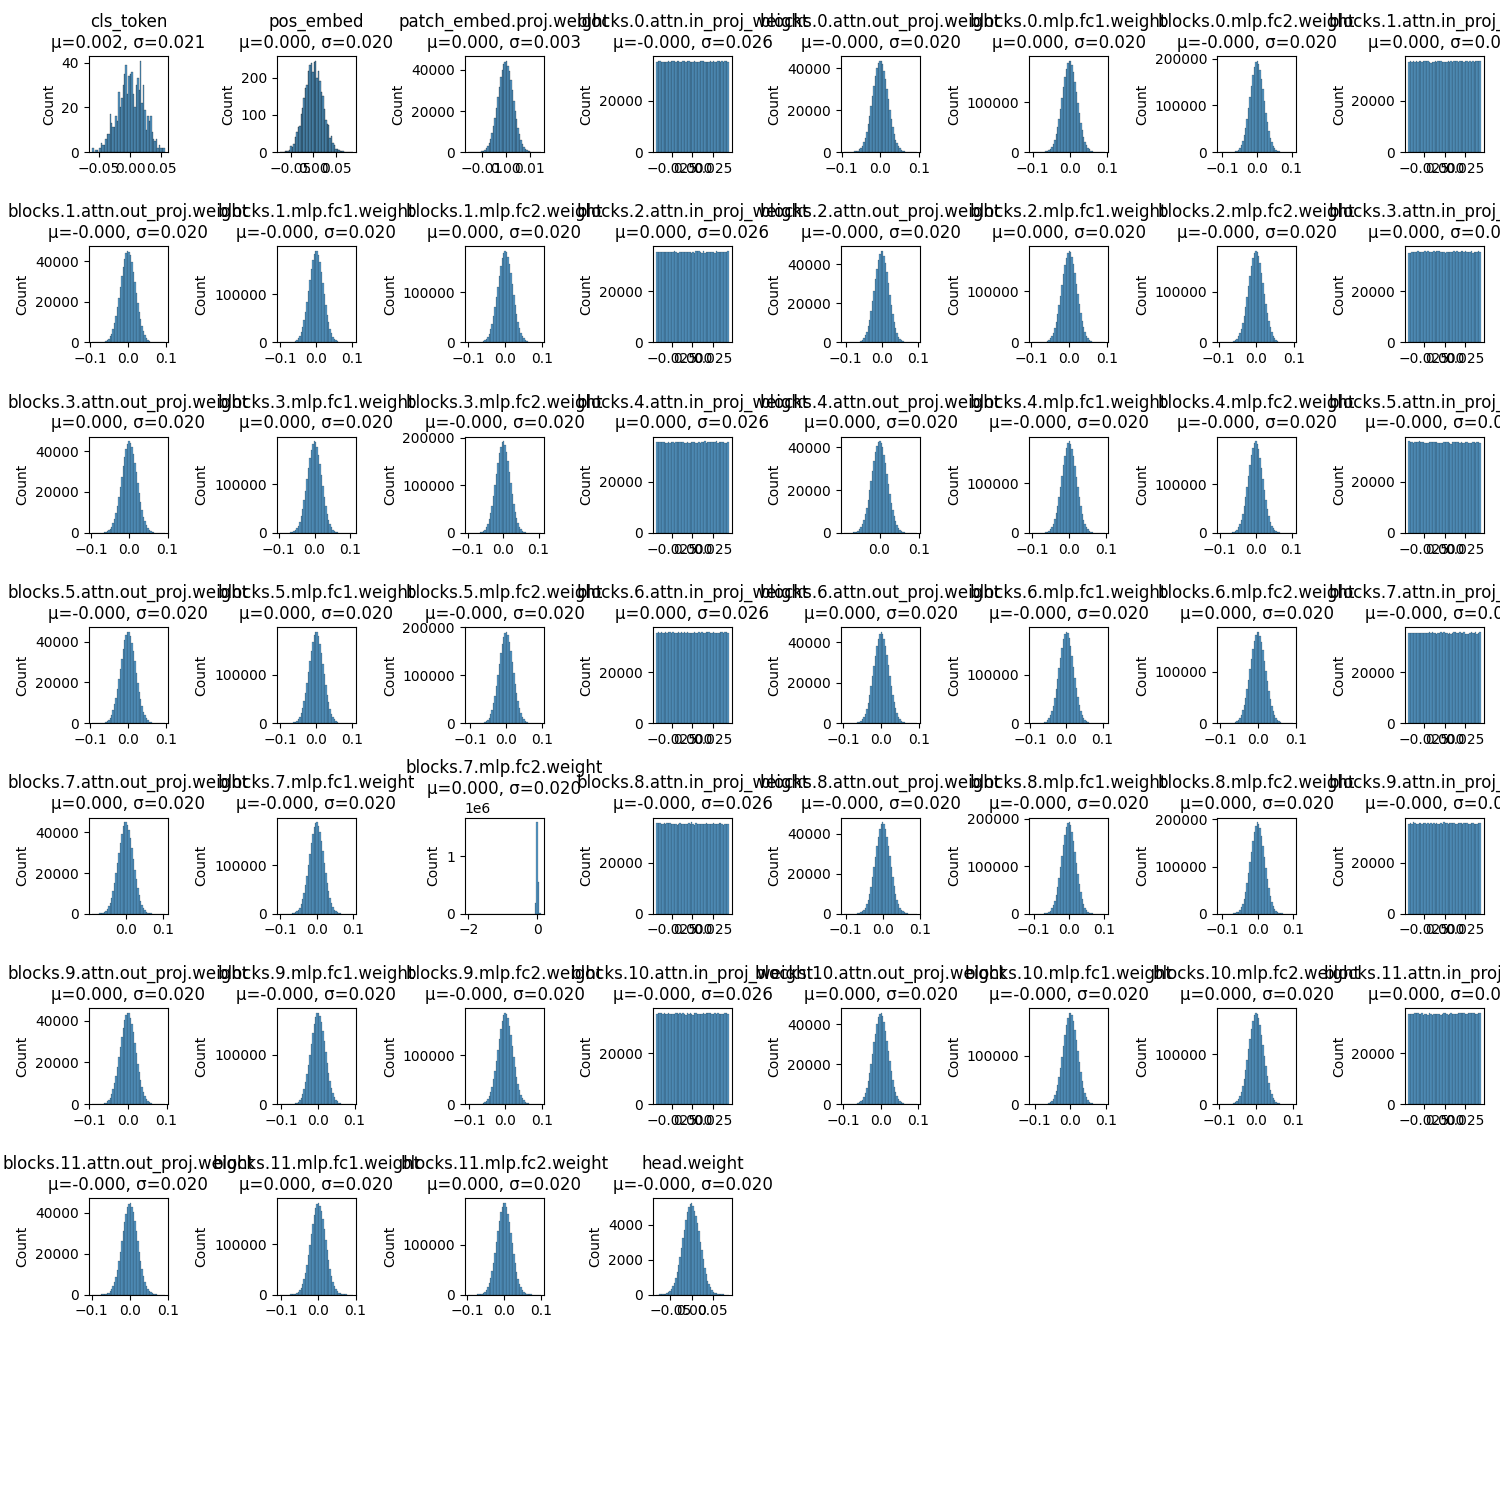
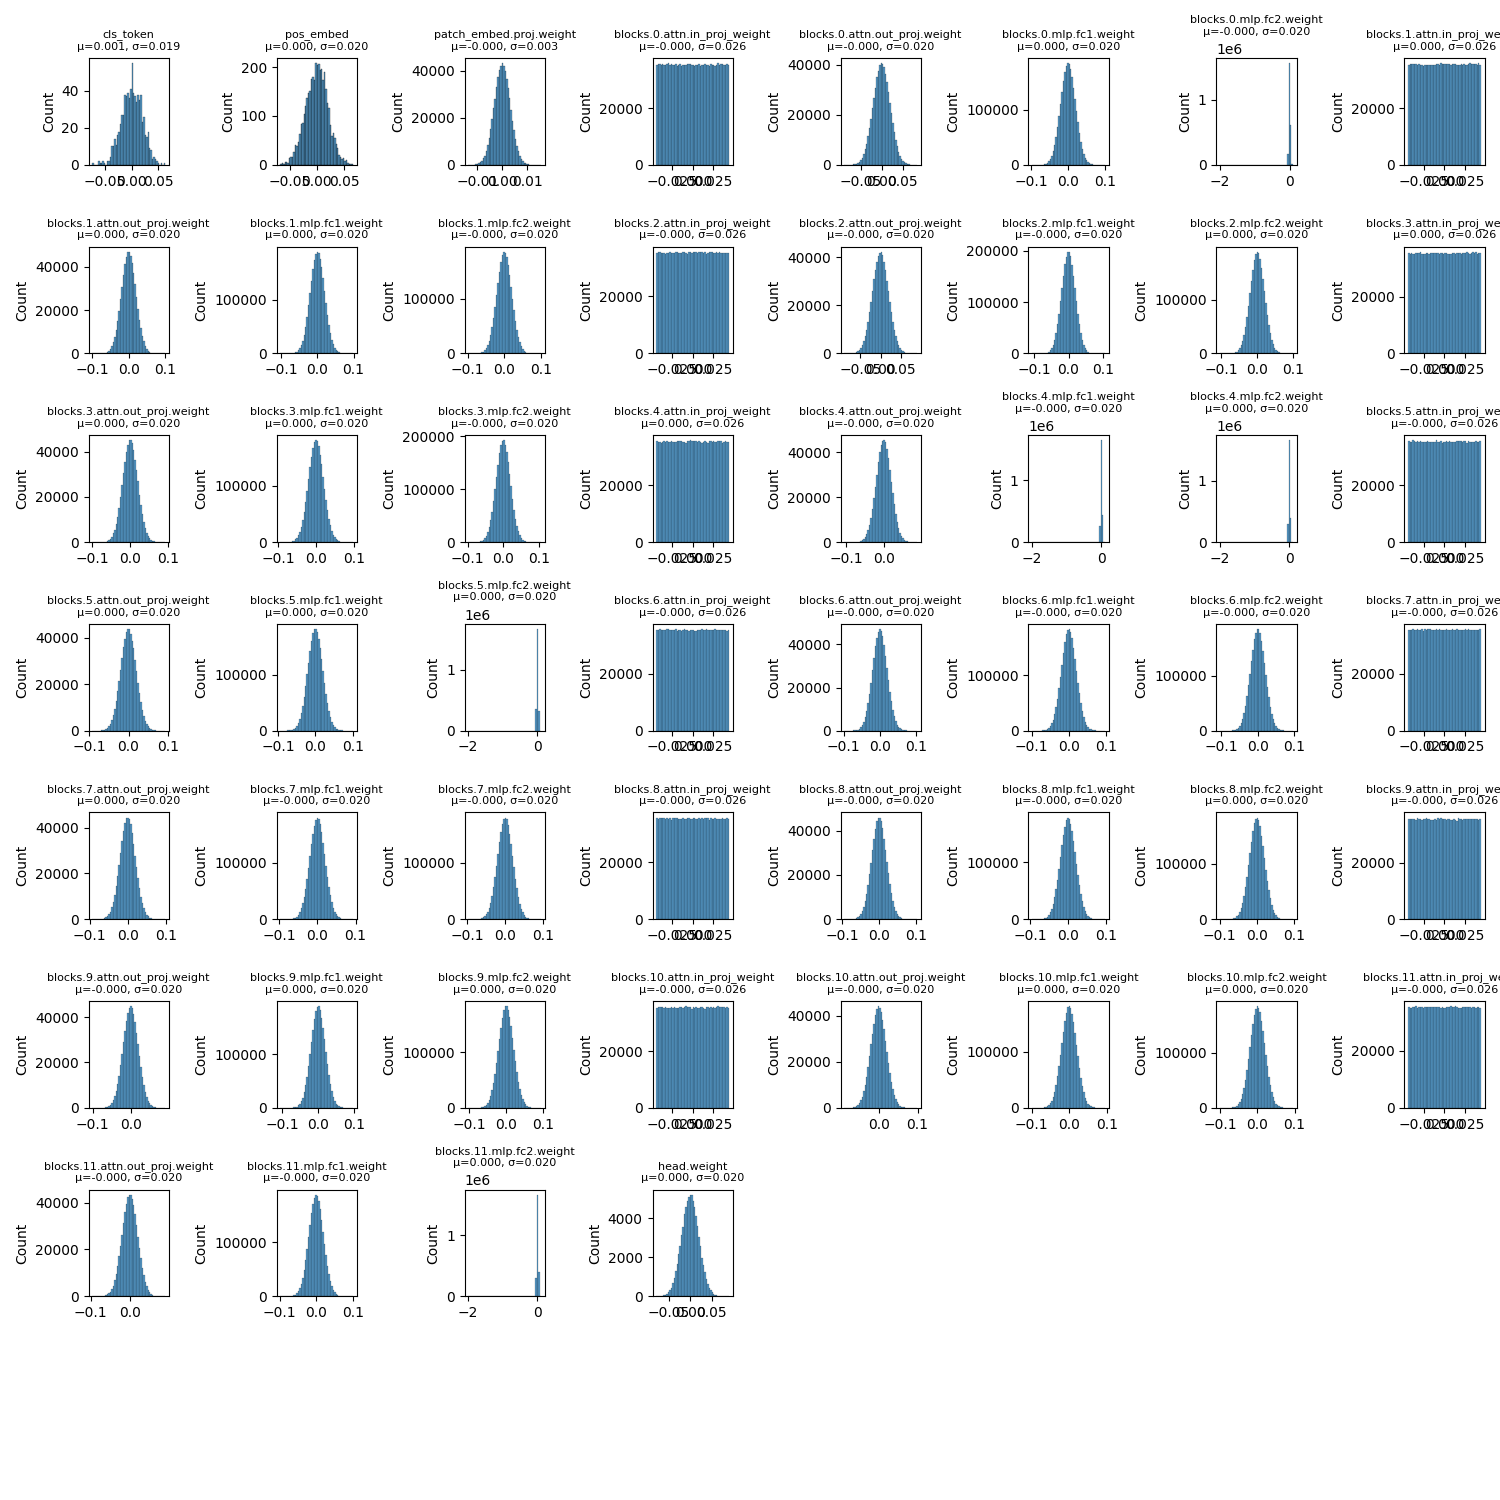
readme.md

diff --git a/analyze_model.py b/analyze_model.py
@@ -111,7 +111,7 @@ def analyze_parameters(model):
         stats = param_stats[name]
         plt.subplot(grid_size, grid_size, i+1)
         sns.histplot(param.flatten().cpu().numpy(), bins=50)
-        plt.title(f'{name}\nμ={stats["mean"]:.3f}, σ={stats["std"]:.3f}')
+        plt.title(f'{name}\nμ={stats["mean"]:.3f}, σ={stats["std"]:.3f}', fontsize=8)
         plt.tight_layout()
     
     plt.savefig('parameter_distributions.png')

diff --git a/README.md b/README.md
@@ -1,56 +1,137 @@
-# BV-ViT Model Conversion
+# BV-ViT: Vision Transformer with Post-Training Quantization
 
-This repository contains tools to work with Vision Transformer (ViT) model checkpoints.
+This repository implements a Vision Transformer (ViT) model with support for post-training quantization to reduce model size and improve inference speed while maintaining accuracy.
 
-## Scripts
+## Overview
 
-### `convert_checkpoint.py`
+BV-ViT provides tools for:
+- Training a Vision Transformer model on image classification tasks
+- Post-training quantization at various bit depths (4-16 bits)
+- Detailed analysis of quantization effects on model performance
+- Comprehensive visualization of quantization results
 
-This script converts training checkpoints (which contain optimizer state, epoch information, etc.) into standalone model files that can be easily used for inference.
+## Model Architecture
 
-#### Usage:
+The Vision Transformer (ViT) implementation follows the architecture described in the ["An Image is Worth 16x16 Words"](https://arxiv.org/abs/2010.11929) paper with customizable parameters:
 
-```
-python convert_checkpoint.py --checkpoint /path/to/checkpoint_epoch_xx.pth --output /path/to/save/model.pth
-```
+- Patchify images into fixed-size patches
+- Linear projection of flattened patches
+- Add positional embeddings
+- Prepend a learnable classification token
+- Process through Transformer encoder blocks
+- Classification via MLP head on the classification token
 
-Arguments:
-- `--checkpoint`: Path to the checkpoint file to convert
-- `--output`: Path where the converted model will be saved
+## Getting Started
 
-### `inference.py`
+### Prerequisites
 
-This script loads a converted model and runs inference on an image.
+- Python 3.7+
+- PyTorch 1.8+
+- CUDA-capable GPU (recommended)
 
-#### Usage:
+### Installation
 
-```
-python inference.py --model /path/to/model.pth --image /path/to/image.jpg [--img_size 224] [--device cuda] [--class_names /path/to/class_names.json]
-```
-
-Arguments:
-- `--model`: Path to the model file
-- `--image`: Path to an image for inference
-- `--img_size` (optional): Image size for inference (default: 224)
-- `--device` (optional): Device to use for inference ('cpu' or 'cuda', default: 'cpu')
-- `--class_names` (optional): JSON file with class names
-
-## Examples
-
-### Convert a checkpoint to a model:
-
-```
-python convert_checkpoint.py --checkpoint checkpoints/checkpoint_epoch_90.pth --output models/vit_model.pth
+```bash
+git clone https://github.com/username/BV-ViT.git
+cd BV-ViT
+pip install -r requirements.txt
 ```
 
-### Run inference with the converted model:
+## Usage
 
-```
-python inference.py --model models/vit_model.pth --image samples/cat.jpg --device cuda
+### Training a Model
+
+To train a Vision Transformer model:
+
+```bash
+python run.py --data-path /path/to/dataset \
+              --output-dir ./outputs \
+              --epochs 90 \
+              --batch-size 128 \
+              --img-size 224 \
+              --patch-size 16 \
+              --embed-dim 768 \
+              --depth 12 \
+              --num-heads 12 \
+              --num-classes 1000
 ```
 
-### Run inference with class names:
+Key parameters:
+- `--data-path`: Path to the dataset (supports ImageNet format)
+- `--img-size`: Input image size
+- `--patch-size`: Size of image patches
+- `--embed-dim`: Embedding dimension
+- `--depth`: Number of transformer blocks
+- `--num-heads`: Number of attention heads
 
+### Post-Training Quantization
+
+After training, you can quantize the model to reduce its size and improve inference speed:
+
+```bash
+python post_training.py --model-path ./outputs/vit_model.pth \
+                       --data-path /path/to/dataset \
+                       --output-dir ./outputs/quantization
 ```
-python inference.py --model models/vit_model.pth --image samples/cat.jpg --class_names imagenet_classes.json
-``` 
+
+The post-training script automatically:
+1. Quantizes the model to multiple bit depths (4, 6, 8, 10, 12, 16 bits)
+2. Evaluates performance metrics for each bit depth
+3. Generates visualizations comparing original vs. quantized models
+4. Creates detailed reports on size, speed, and accuracy tradeoffs
+
+## Key Components
+
+### run.py
+
+The main training script with the following features:
+- Command-line interface for model configuration
+- Training and validation loops
+- Model checkpointing and backup
+- Comprehensive metrics logging and visualization
+- Support for resuming training from checkpoints
+
+### post_training.py
+
+Handles post-training quantization with:
+- Support for multiple bit-width quantization (4-16 bits)
+- Weight and activation quantization
+- Comprehensive performance evaluation
+- Detailed visualizations and comparisons
+- Analysis of quantization effects on different layers
+
+### model.py
+
+Implements the Vision Transformer architecture:
+- PatchEmbed: Converts images to patch embeddings
+- MLP: Multi-layer perceptron for transformer blocks
+- TransformerEncoderBlock: Self-attention and feed-forward layers
+- VisionTransformer: Complete model implementation
+
+## Visualization Outputs
+
+The post-training quantization process generates:
+- Accuracy comparisons between original and quantized models
+- Inference time measurements
+- Model size reductions
+- Per-class accuracy changes
+- Activation distribution histograms
+- Confusion matrices
+- Comparative analysis across different bit depths
+
+## Performance Insights
+
+Quantizing the model typically results in:
+- 2-4x reduction in model size (8-bit quantization)
+- 1.2-1.5x speedup in inference time
+- Minimal accuracy degradation at 8+ bits
+- Noticeable accuracy drops at 4-6 bits
+
+## License
+
+[MIT License](LICENSE)
+
+## Acknowledgments
+
+- The Vision Transformer implementation is based on the paper "An Image is Worth 16x16 Words" by Dosovitskiy et al.
+- Quantization techniques draw inspiration from PyTorch's Quantization API and various research papers on efficient deep learning. 
